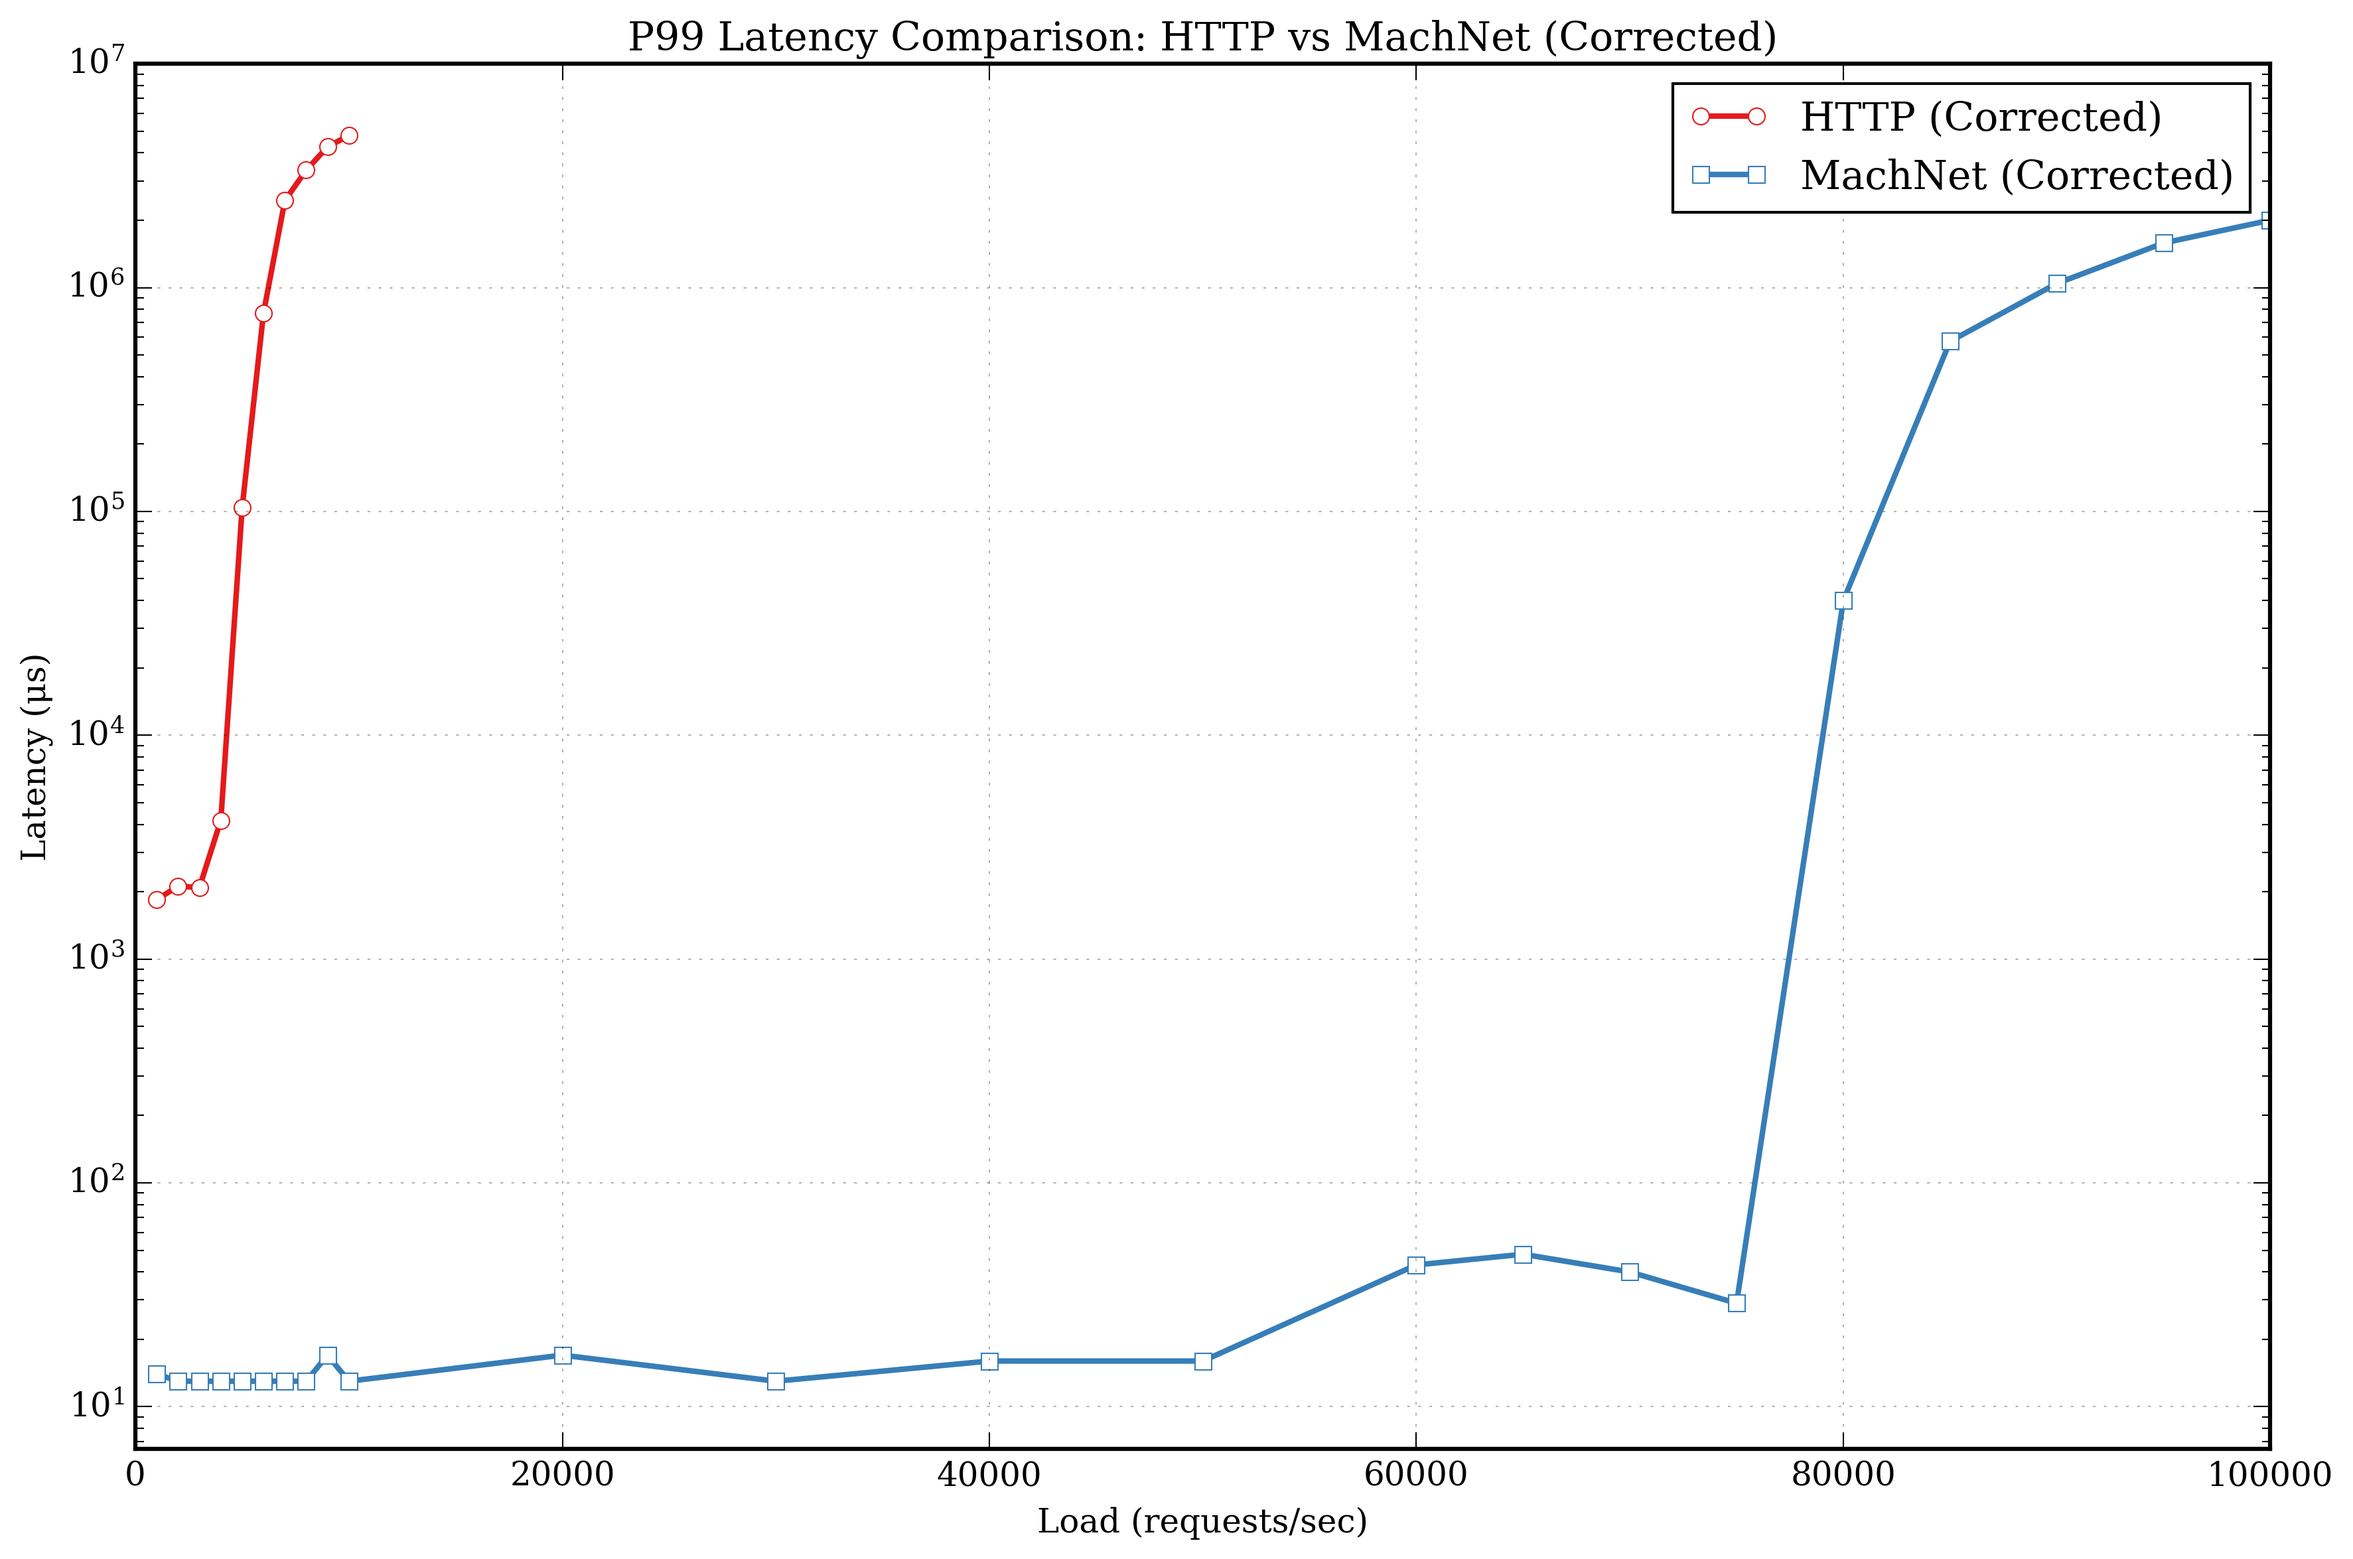
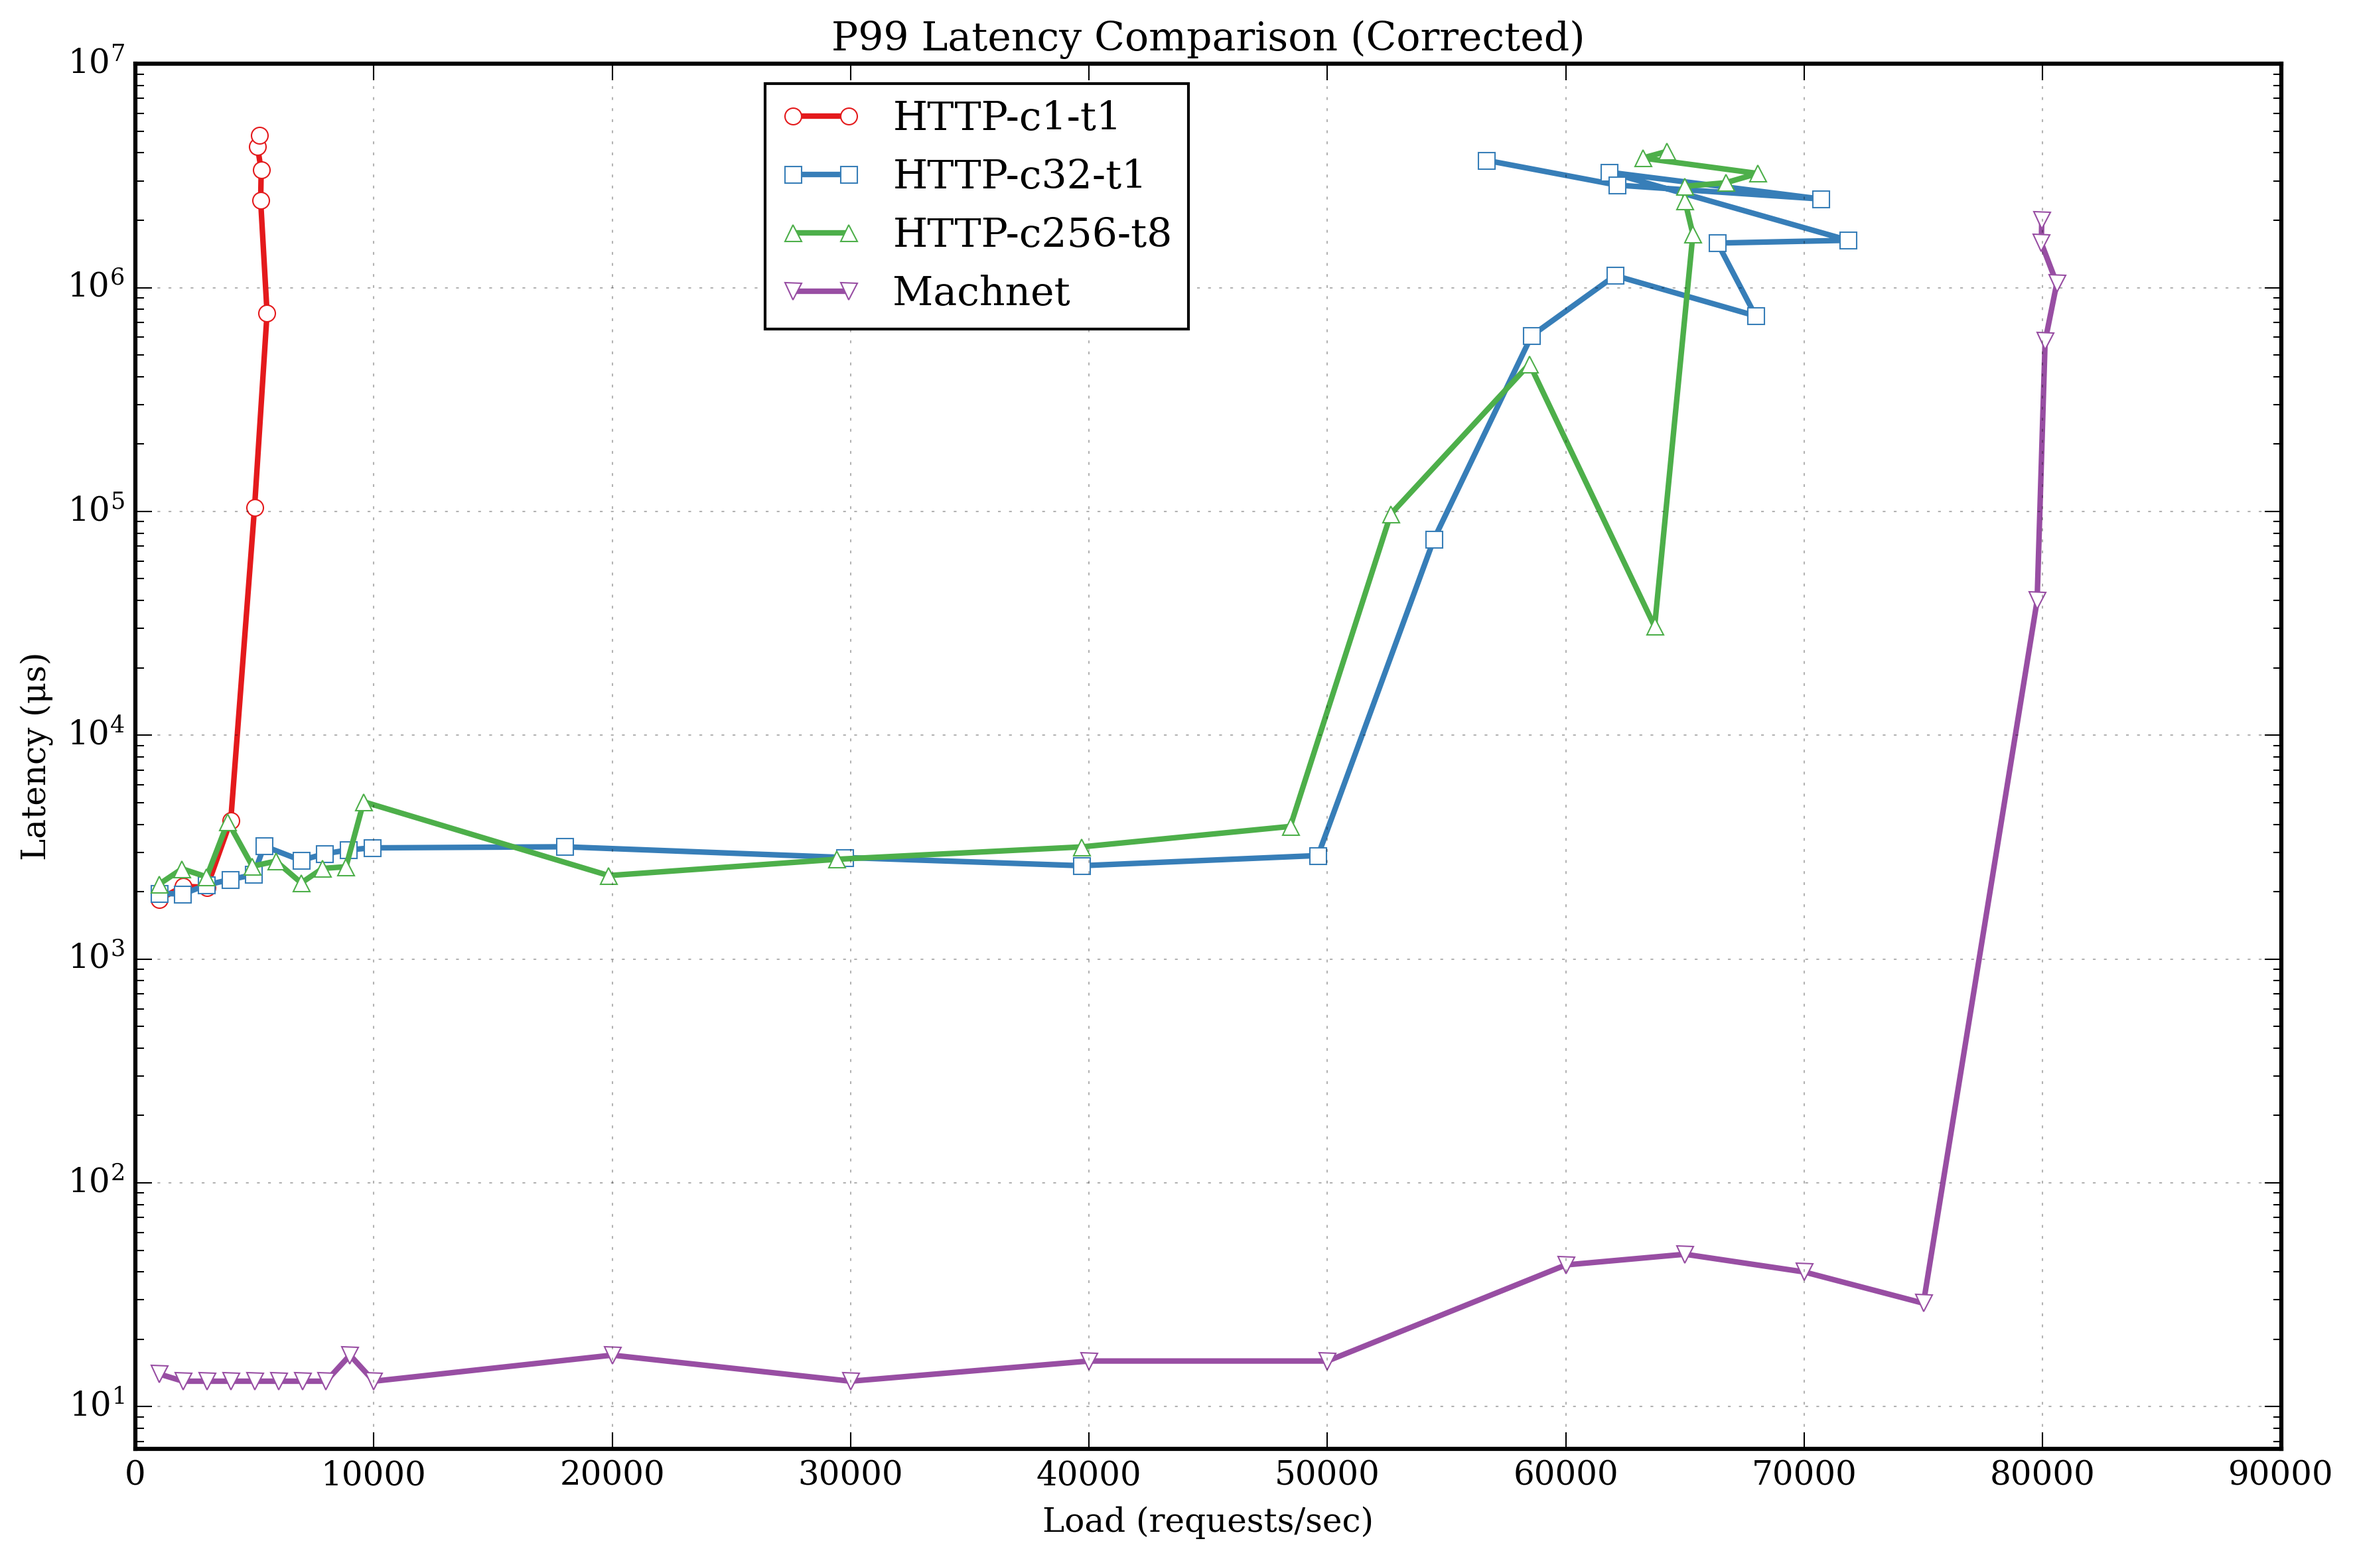
nits Signed-off-by: vjabrayilov <vjabrayilov@cs.columbia.edu>

diff --git a/examples/scripts/README.md b/examples/scripts/README.md
@@ -39,23 +39,24 @@ python3 run_experiments.py /home/user/load_tests
 ```
 
 ### `plot_latency.py`
-Generates load-latency plots from experiment CSV results.
+Generates load-latency plots from experiment CSV results. Supports both single CSV files and JSON configuration for comparing multiple datasets.
 
 **Usage:**
 ```bash
-python3 plot_latency.py <csv_file> <output_dir> [options]
+python3 plot_latency.py <input_file> <output_dir> [options]
 ```
 
 **Arguments:**
-- `csv_file`: Required. CSV file with experiment results
+- `input_file`: Required. CSV file with experiment results OR JSON configuration file
 - `output_dir`: Required. Directory where plot images will be saved
 - `-o, --output`: Output file prefix (default: latency_plot)
 - `-p, --percentile`: Plot specific percentile only (50, 99, or 99.9)
 - `--all`: Plot all percentiles in single figure (default)
 - `--combined`: Plot side-by-side corrected vs uncorrected (deprecated)
 - `--throughput`: Plot throughput comparison
+- `--json`: Force treat input as JSON configuration file
 
-**Examples:**
+**Single CSV Examples:**
 ```bash
 # Default: All latencies in single plot
 python3 plot_latency.py results/experiment_results_20250623_123456.csv ./plots
@@ -65,14 +66,23 @@ python3 plot_latency.py results/experiment_results_20250623_123456.csv ./plots -
 
 # Plot throughput comparison
 python3 plot_latency.py results/experiment_results_20250623_123456.csv ./plots --throughput
+```
 
-# Custom output prefix
-python3 plot_latency.py results/experiment_results_20250623_123456.csv ./plots -o my_analysis
+**Multi-Dataset Comparison Examples:**
+```bash
+# Compare multiple datasets using JSON config
+python3 plot_latency.py plot.json ./plots
+
+# Compare P99 latencies from multiple datasets
+python3 plot_latency.py plot.json ./plots -p 99
+
+# Custom output prefix for comparison
+python3 plot_latency.py plot.json ./plots -o machnet_vs_http
 ```
 
 ## Configuration Format
 
-### `experiment.json`
+### `experiment.json` (for run_experiments.py)
 ```json
 {
     "binary_path": "....",
@@ -90,6 +100,29 @@ python3 plot_latency.py results/experiment_results_20250623_123456.csv ./plots -
 **Range Format:** `"start:stop:step"`
 - Multiple ranges are supported and will be combined
 - Example: `["10:50:10", "100:500:100"]` generates rates: 10,20,30,40,50,100,200,300,400,500
+
+### `plot.json` (for plot_latency.py comparison plots)
+```json
+{
+    "HTTP": "output_http/experiment_results_20250624_161645.csv",
+    "Machnet": "output_machnet/experiment_results_20250624_011645.csv"
+}
+```
+
+**Alternative format:**
+```json
+[
+    "HTTP:output_http/experiment_results_20250624_161645.csv",
+    "Machnet:output_machnet/experiment_results_20250624_011645.csv"
+]
+```
+
+**JSON Configuration Rules:**
+- Dictionary format: `{"caption": "csv_file.csv"}`
+- List format: `["caption:csv_file.csv"]`
+- File paths are relative to the JSON file location
+- Absolute paths are also supported
+- Only successful experiments from each CSV are plotted
 
 ## Output Files
 
